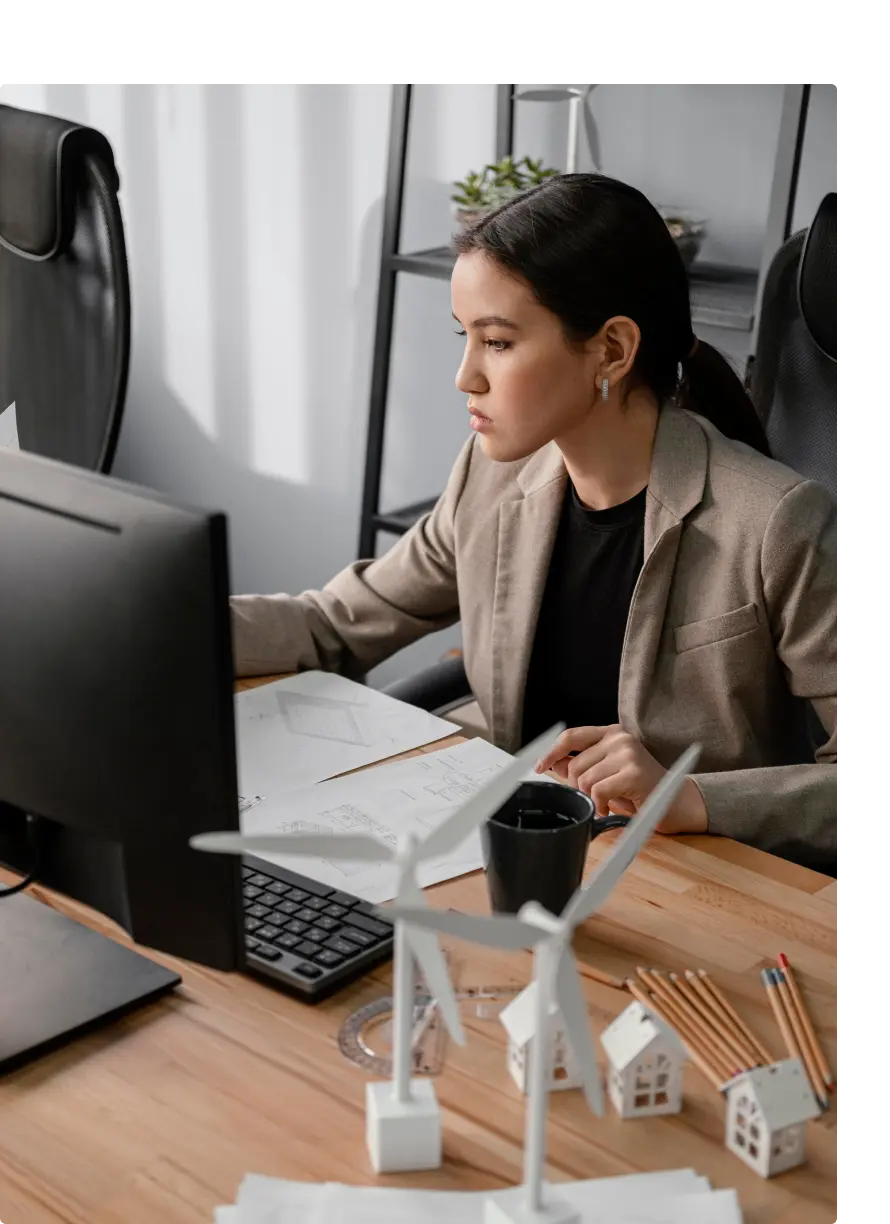
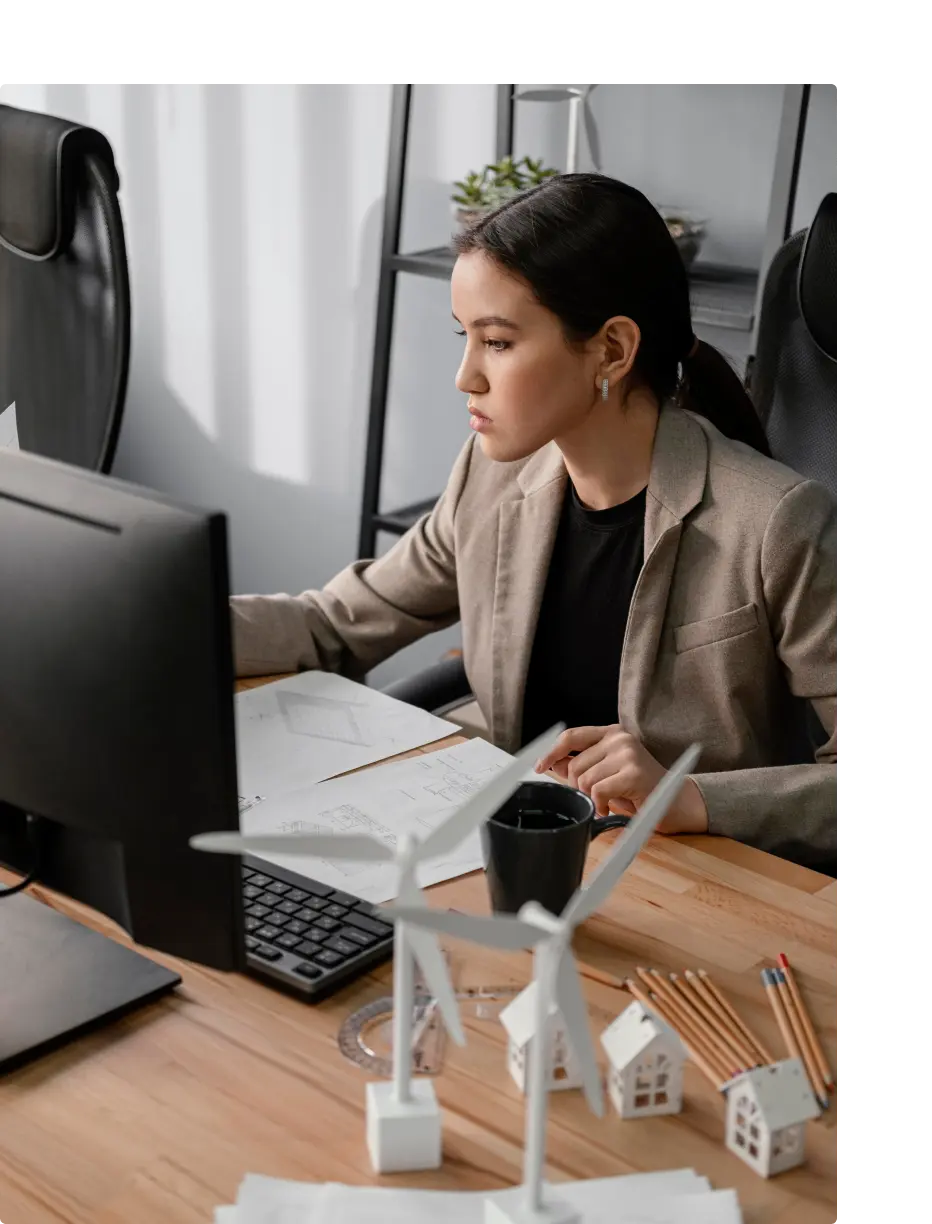
add-updates

diff --git a/src/common/Header.jsx b/src/common/Header.jsx
@@ -30,8 +30,9 @@ const Header = () => {
                             />
                         </a>
                         <div className={` z-40 flex gap-10 max-lg:flex-col max-lg:fixed max-lg:top-0 max-lg:w-full max-lg:h-screen max-lg:justify-center max-lg:items-center max-lg:bg-ball-blue max-lg:transition-all max-lg:duration-300 ${open ? 'bg-darkGreen max-lg:left-0' : 'left-full'}`}>
-                            {NAV_LIST.map((obj, i) => (
-                                <a href={obj.id} className="text-white text-base font-normal font-helvetica"  key={i}>{obj.name}
+                        {NAV_LIST.map((obj, i) => (
+                                
+                            <a href={obj.id} className="text-white text-base font-normal font-helvetica relative after:absolute after:w-0 after:transition-all after:duration-300 after:hover:w-full after:bottom-0 after:h-0.5 after:bg-white pb-0.5 after:left-0"  key={i}>{obj.name}
                                 </a>
                             
                             ))}

diff --git a/src/components/HeroSection.jsx b/src/components/HeroSection.jsx
@@ -36,9 +36,10 @@ const HeroSection = () => {
             <div className="w-6/12 max-lg:w-full ">
               <img
                 src='/assets/images/webp/hero-section-img.webp'
-                alt="work"
-                className="pointer-events-none w-full max-w-[558px] max-lg:mx-auto relative z-0 translate-y-[120px] max-xl:translate-y-0 max-xl:pb-7"
+                alt="working-girl"
+                className=" max-lg:hidden pointer-events-none w-full max-w-[558px] max-lg:mx-auto relative z-0 translate-y-[120px] max-xl:translate-y-0 max-xl:pb-7"
               />
+              <img src="/assets/images/webp/hero-section-sm-img.webp" alt="working-girl" className="mx-auto lg:hidden pointer-events-none w-full max-w-[558px]" />
             </div>
           </div>
         </div>
